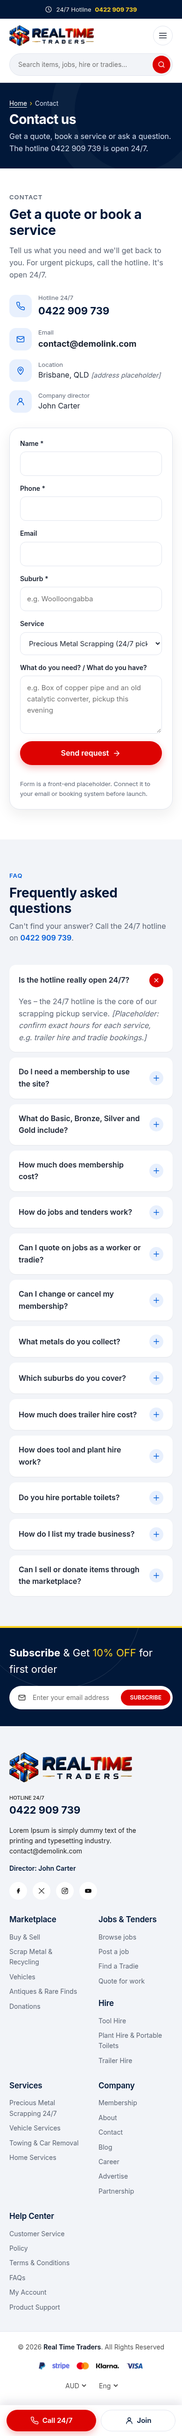
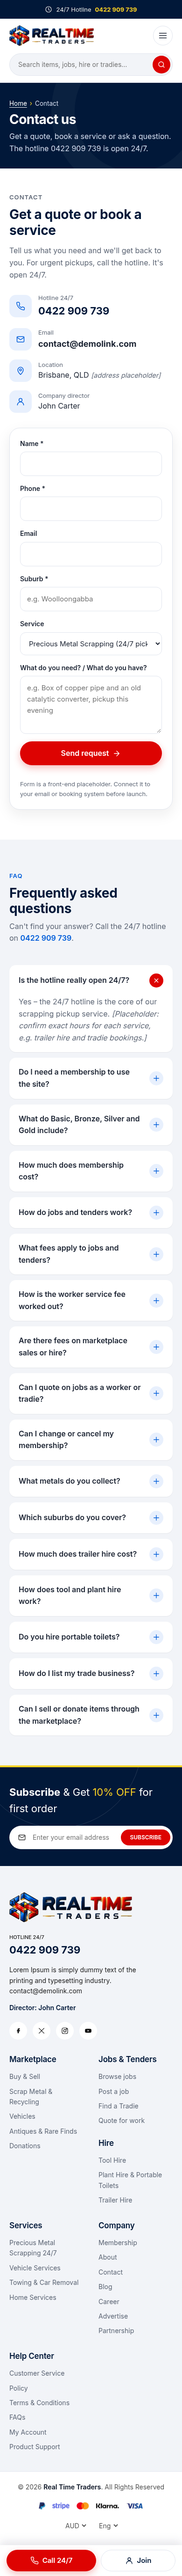
Add job fees

Changed region(s): [[0.0, 0.0, 1.0, 0.9958], [0.5231, 0.9647, 0.6462, 0.9958], [0.7077, 0.9647, 0.8, 0.9958]]

diff --git a/membership.html b/membership.html
@@ -200,7 +200,7 @@
             <p class="tier__price"><strong>$4.99</strong> <span>/month</span></p>
             <p class="tier__annual">or $49.90/year <em>(2 months free)</em></p>
             <button type="button" class="btn btn--navy btn--block" data-auth="join" data-join-tier="Basic">Join Basic</button>
-            <ul class="tier__list"><li class="tier__lead">Everything in Guest, plus:</li><li><svg class="icon" aria-hidden="true"><use href="#i-check"/></svg><span>Buy items in the marketplace</span></li><li><svg class="icon" aria-hidden="true"><use href="#i-check"/></svg><span>Sell up to 10 active listings</span></li><li><svg class="icon" aria-hidden="true"><use href="#i-check"/></svg><span>Post jobs &amp; receive quotes (up to 5 open jobs)</span></li><li><svg class="icon" aria-hidden="true"><use href="#i-check"/></svg><span>Message buyers, sellers &amp; tradies</span></li><li><svg class="icon" aria-hidden="true"><use href="#i-check"/></svg><span>Saved searches &amp; alerts</span></li></ul>
+            <ul class="tier__list"><li class="tier__lead">Everything in Guest, plus:</li><li><svg class="icon" aria-hidden="true"><use href="#i-check"/></svg><span>Buy items in the marketplace</span></li><li><svg class="icon" aria-hidden="true"><use href="#i-check"/></svg><span>Sell up to 10 active listings</span></li><li><svg class="icon" aria-hidden="true"><use href="#i-check"/></svg><span>Post jobs &amp; receive quotes (up to 5 open jobs)</span></li><li><svg class="icon" aria-hidden="true"><use href="#i-check"/></svg><span>No job connection fees (normally $9.95–$59.95)</span></li><li><svg class="icon" aria-hidden="true"><use href="#i-check"/></svg><span>Message buyers, sellers &amp; tradies</span></li><li><svg class="icon" aria-hidden="true"><use href="#i-check"/></svg><span>Saved searches &amp; alerts</span></li></ul>
           </article>
           <article class="tier">
             
@@ -245,7 +245,9 @@
               <tr><th scope="row">Message buyers, sellers &amp; tradies</th><td><span class="no" aria-label="Not included">–</span></td><td><span class="yes" aria-label="Included"><svg class="icon" aria-hidden="true"><use href="#i-check"/></svg></span></td><td><span class="yes" aria-label="Included"><svg class="icon" aria-hidden="true"><use href="#i-check"/></svg></span></td><td class="is-featured"><span class="yes" aria-label="Included"><svg class="icon" aria-hidden="true"><use href="#i-check"/></svg></span></td><td><span class="yes" aria-label="Included"><svg class="icon" aria-hidden="true"><use href="#i-check"/></svg></span></td></tr>
               <tr><th scope="row">Saved searches &amp; alerts</th><td><span class="no" aria-label="Not included">–</span></td><td><span class="yes" aria-label="Included"><svg class="icon" aria-hidden="true"><use href="#i-check"/></svg></span></td><td><span class="yes" aria-label="Included"><svg class="icon" aria-hidden="true"><use href="#i-check"/></svg></span></td><td class="is-featured"><span class="yes" aria-label="Included"><svg class="icon" aria-hidden="true"><use href="#i-check"/></svg></span></td><td><span class="yes" aria-label="Included"><svg class="icon" aria-hidden="true"><use href="#i-check"/></svg></span></td></tr>
               <tr><th scope="row">Post jobs &amp; receive quotes</th><td><span class="no" aria-label="Not included">–</span></td><td>Up to 5 open jobs</td><td>Unlimited*</td><td class="is-featured">Unlimited*</td><td>Unlimited*</td></tr>
+              <tr><th scope="row">Job connection fee (posters)</th><td>n/a</td><td>Waived</td><td>Waived</td><td class="is-featured">Waived</td><td>Waived</td></tr>
               <tr><th scope="row">Quote on jobs &amp; tenders</th><td><span class="no" aria-label="Not included">–</span></td><td><span class="no" aria-label="Not included">–</span></td><td>20/month</td><td class="is-featured">60/month</td><td>Unlimited*</td></tr>
+              <tr><th scope="row">Worker service fee (on jobs won)</th><td>n/a</td><td>n/a</td><td>12.5–20% + GST</td><td class="is-featured">12.5–20% + GST</td><td>12.5–20% + GST</td></tr>
               <tr><th scope="row">Featured listings</th><td><span class="no" aria-label="Not included">–</span></td><td><span class="no" aria-label="Not included">–</span></td><td><span class="no" aria-label="Not included">–</span></td><td class="is-featured">2/month</td><td>10/month + top placement</td></tr>
               <tr><th scope="row">Verified member badge</th><td><span class="no" aria-label="Not included">–</span></td><td><span class="no" aria-label="Not included">–</span></td><td><span class="no" aria-label="Not included">–</span></td><td class="is-featured"><span class="yes" aria-label="Included"><svg class="icon" aria-hidden="true"><use href="#i-check"/></svg></span></td><td><span class="yes" aria-label="Included"><svg class="icon" aria-hidden="true"><use href="#i-check"/></svg></span></td></tr>
               <tr><th scope="row">Hire booking priority</th><td><span class="no" aria-label="Not included">–</span></td><td><span class="no" aria-label="Not included">–</span></td><td><span class="no" aria-label="Not included">–</span></td><td class="is-featured"><span class="yes" aria-label="Included"><svg class="icon" aria-hidden="true"><use href="#i-check"/></svg></span></td><td><span class="yes" aria-label="Included"><svg class="icon" aria-hidden="true"><use href="#i-check"/></svg></span></td></tr>
@@ -258,6 +260,10 @@
           </table>
         </div>
         <p class="note">Prices in AUD, including GST. Introductory pricing; pricing and features may change. *Unlimited is subject to fair use. Member hire discounts apply to Real Time Traders hire bookings.</p>
+        <div class="fees-mini">
+          <p><strong><svg class="icon" aria-hidden="true"><use href="#i-coins"/></svg> Job fees:</strong> members pay no connection fee when they assign a job (normally $9.95–$59.95). Workers pay a service fee of 12.5–20% + GST on jobs they win, based on their fee level. Marketplace and hire have no extra fees beyond membership.</p>
+          <a href="jobs.html#fees" class="link-arrow">How job fees work <svg class="icon" aria-hidden="true"><use href="#i-arrow-right"/></svg></a>
+        </div>
       </div>
     </section>
 

diff --git a/jobs.html b/jobs.html
@@ -362,7 +362,7 @@
             <ol class="how-list">
               <li><span>1</span><div><strong>Describe the job</strong><p>Title, category, suburb, budget and details.</p></div></li>
               <li><span>2</span><div><strong>Receive quotes</strong><p>Local workers and tradies send tenders.</p></div></li>
-              <li><span>3</span><div><strong>Compare &amp; choose</strong><p>Check price, profile and reviews, then accept.</p></div></li>
+              <li><span>3</span><div><strong>Compare &amp; choose</strong><p>Check price, profile and reviews, then accept. Members pay no connection fee.</p></div></li>
               <li><span>4</span><div><strong>Get it done</strong><p>Job completed, then leave a review.</p></div></li>
             </ol>
           </div>
@@ -372,9 +372,44 @@
               <li><span>1</span><div><strong>Join &amp; build a profile</strong><p>Bronze membership or higher (from $19.99/month).</p></div></li>
               <li><span>2</span><div><strong>Browse jobs</strong><p>Filter by category and suburb, or set alerts.</p></div></li>
               <li><span>3</span><div><strong>Send a quote</strong><p>Price, timing and a short message.</p></div></li>
-              <li><span>4</span><div><strong>Win the work</strong><p>Do a great job and collect reviews.</p></div></li>
+              <li><span>4</span><div><strong>Win the work</strong><p>Do a great job and collect reviews. A service fee is deducted when you're paid (<a href="#fees">see fees</a>).</p></div></li>
             </ol>
           </div>
+        </div>
+
+        <div class="fees" id="fees">
+          <div class="fees__head">
+            <p class="eyebrow"><svg class="icon" aria-hidden="true"><use href="#i-coins"/></svg> Job fees</p>
+            <h3 class="fees__title">How fees work on Jobs &amp; Tenders</h3>
+            <p>Posting and browsing jobs costs nothing extra. Fees only apply once a quote is accepted and a worker is assigned. Marketplace buying and selling and equipment hire have no extra fees beyond membership.</p>
+          </div>
+          <div class="fees__grid">
+            <article class="fee-card">
+              <h4><svg class="icon" aria-hidden="true"><use href="#i-user"/></svg> Job posters: connection fee</h4>
+              <p>A one-off connection fee is charged when you accept a quote and assign the job. It's set by the accepted quote price, includes GST, and doesn't change if the price changes later.</p>
+              <p class="fee-card__waived"><svg class="icon" aria-hidden="true"><use href="#i-check"/></svg> <span><strong>Members pay $0.</strong> The connection fee is waived for Basic, Bronze, Silver and Gold members. Posting a job needs Basic ($4.99/month), so as a member you never pay it.</span></p>
+              <div class="table-wrap table-wrap--plain">
+                <table class="fee-table">
+                  <caption>Standard connection fee (non-members)</caption>
+                  <thead><tr><th scope="col">Accepted quote price</th><th scope="col">Connection fee (inc. GST)</th></tr></thead>
+                  <tbody><tr><td>Under $50</td><td>$9.95</td></tr><tr><td>$50 – $99.99</td><td>$14.95</td></tr><tr><td>$100 – $149.99</td><td>$19.95</td></tr><tr><td>$150 – $199.99</td><td>$29.95</td></tr><tr><td>$200 – $249.99</td><td>$39.95</td></tr><tr><td>$250 – $299.99</td><td>$49.95</td></tr><tr><td>$300 and over</td><td>$59.95</td></tr><tr class="is-member"><td>Basic membership and up</td><td><strong>$0 (waived)</strong></td></tr></tbody>
+                </table>
+              </div>
+            </article>
+            <article class="fee-card">
+              <h4><svg class="icon" aria-hidden="true"><use href="#i-tools"/></svg> Workers &amp; tradies: service fee</h4>
+              <p>When you win a job, a service fee is worked out from your fee level and the job price. It's deducted from your payment when the job is completed and paid out. If you don't win the job, you don't pay anything.</p>
+              <div class="table-wrap table-wrap--plain">
+                <table class="fee-table">
+                  <caption>Worker fee levels (higher level, lower fee)</caption>
+                  <thead><tr><th scope="col">Level</th><th scope="col">Earned in last 30 days</th><th scope="col">Completion rate*</th><th scope="col">Service fee</th></tr></thead>
+                  <tbody><tr><th scope="row">Level 1</th><td>Under $880</td><td>Starting level</td><td><strong>20%</strong> + GST</td></tr><tr><th scope="row">Level 2</th><td>$880+</td><td>Okay</td><td><strong>18.5%</strong> + GST</td></tr><tr><th scope="row">Level 3</th><td>$2,650+</td><td>Good</td><td><strong>14.9%</strong> + GST</td></tr><tr><th scope="row">Level 4</th><td>$5,300+</td><td>Excellent</td><td><strong>12.5%</strong> + GST</td></tr></tbody>
+                </table>
+              </div>
+              <p class="fee-card__example"><strong>Example:</strong> a $200 job at Level 1 has a 20% fee ($40) plus GST ($4), so you receive $156.</p>
+            </article>
+          </div>
+          <p class="note">*Completion rate is the share of your last 20 assigned jobs that you completed. You need to meet both the earnings and the completion requirement to reach a level. Fees are in AUD. Pricing and features may change.</p>
         </div>
       </div>
     </section>

diff --git a/css/style.css b/css/style.css
@@ -780,3 +780,37 @@ body:not(.is-member) .members-only:hover::after, body:not(.is-member) .members-o
 .member-teaser__prices li small { font-size: 12px; color: var(--steel); font-weight: 500; }
 .member-teaser__prices li.is-featured { border: 2px solid var(--red); }
 .member-teaser__note { margin-top: 12px; }
+
+/* v6: job fees */
+.fees { margin-top: 40px; background: #fff; border: 1px solid var(--line); border-radius: var(--radius-lg); padding: 24px 18px; box-shadow: var(--shadow); scroll-margin-top: 150px; }
+@media (min-width: 768px) { .fees { padding: 32px; } }
+.fees__head { max-width: 760px; margin-bottom: 22px; }
+.fees__title { font-size: clamp(22px, 2.6vw, 28px); margin: 0 0 8px; }
+.fees__head p:last-child { color: var(--steel); margin: 0; }
+.fees__grid { display: grid; gap: 18px; }
+@media (min-width: 1024px) { .fees__grid { grid-template-columns: 1fr 1.25fr; align-items: start; } }
+.fee-card { border: 1px solid var(--line); border-radius: var(--radius); padding: 20px; background: var(--soft); min-width: 0; }
+.fee-card h4 { display: flex; align-items: center; gap: 8px; margin: 0 0 8px; font-size: 18px; color: var(--navy); }
+.fee-card h4 .icon { width: 20px; height: 20px; color: var(--brand-text); }
+.fee-card > p { font-size: 14.5px; color: var(--steel); margin: 0 0 12px; }
+.fee-card__waived { display: flex; gap: 10px; align-items: flex-start; background: #e7f6ec; border: 1px solid #b7e2c4; color: #14532d !important; border-radius: var(--radius-sm); padding: 10px 12px; }
+.fee-card__waived .icon { width: 18px; height: 18px; flex: none; margin-top: 2px; color: #15803d; }
+.fee-card__example { background: #fff; border-left: 3px solid var(--accent); padding: 10px 12px; border-radius: 0 var(--radius-sm) var(--radius-sm) 0; margin-top: 12px !important; }
+.table-wrap--plain { overflow-x: auto; }
+.fee-table { width: 100%; border-collapse: collapse; background: #fff; border-radius: var(--radius-sm); overflow: hidden; font-size: 14px; }
+.fee-table caption { text-align: left; font-size: 13px; font-weight: 600; color: var(--navy); padding: 0 0 8px; caption-side: top; }
+.fee-table th, .fee-table td { padding: 9px 12px; border-bottom: 1px solid var(--line); text-align: left; white-space: nowrap; }
+.fee-table thead th { background: var(--navy); color: #fff; font-weight: 600; font-size: 13px; }
+.fee-table tbody th { color: var(--navy); font-weight: 700; }
+.fee-table tr.is-member td { background: #e7f6ec; color: #14532d; }
+.fees .note { margin-top: 16px; }
+.fees-mini { margin-top: 20px; display: flex; flex-wrap: wrap; gap: 10px 24px; align-items: center; justify-content: space-between; background: var(--soft); border: 1px solid var(--line); border-radius: var(--radius); padding: 14px 18px; }
+.fees-mini p { margin: 0; flex: 1 1 520px; color: var(--navy); font-size: 14.5px; }
+.fees-mini .icon { width: 16px; height: 16px; vertical-align: -3px; color: var(--brand-text); }
+@media (max-width: 559px) {
+  .fees { padding: 20px 14px; }
+  .fee-card { padding: 14px 12px; }
+  .fee-table { font-size: 13px; }
+  .fee-table th, .fee-table td { white-space: normal; padding: 8px 7px; }
+  .fee-table thead th { font-size: 12px; }
+}

diff --git a/contact.html b/contact.html
@@ -236,7 +236,19 @@
           </details>
           <details class="faq__item">
             <summary>How do jobs and tenders work?<svg class="icon faq__icon" aria-hidden="true"><use href="#i-plus"/></svg></summary>
-            <div class="faq__answer"><p>Post a job with a title, category, suburb, budget and description. Members send quotes (tenders), you compare them and choose who does the work. <em>[Placeholder: confirm fees, payments, deposits and the dispute process.]</em></p></div>
+            <div class="faq__answer"><p>Post a job with a title, category, suburb, budget and description. Members send quotes (tenders), you compare them and choose who does the work. Members pay no connection fee, and the worker you choose pays a service fee on the job. <em>[Placeholder: confirm payments, deposits and the dispute process.]</em></p></div>
+          </details>
+          <details class="faq__item">
+            <summary>What fees apply to jobs and tenders?<svg class="icon faq__icon" aria-hidden="true"><use href="#i-plus"/></svg></summary>
+            <div class="faq__answer"><p>Two fees, and only once a quote is accepted. Posters pay a one-off connection fee of $9.95 to $59.95 (inc. GST, based on the accepted quote price), which is <strong>waived for all members</strong>. Since posting needs Basic membership, members never pay it. Workers pay a service fee of 12.5% to 20% + GST on jobs they win, deducted when they're paid. See <a href="jobs.html#fees">job fees</a>.</p></div>
+          </details>
+          <details class="faq__item">
+            <summary>How is the worker service fee worked out?<svg class="icon faq__icon" aria-hidden="true"><use href="#i-plus"/></svg></summary>
+            <div class="faq__answer"><p>It depends on your fee level, which is based on what you've earned in the last 30 days and your completion rate over your last 20 assigned jobs. Level 1 (under $880) pays 20%, Level 2 ($880+) 18.5%, Level 3 ($2,650+) 14.9% and Level 4 ($5,300+) 12.5%, all plus GST. If you don't win a job, you don't pay.</p></div>
+          </details>
+          <details class="faq__item">
+            <summary>Are there fees on marketplace sales or hire?<svg class="icon faq__icon" aria-hidden="true"><use href="#i-plus"/></svg></summary>
+            <div class="faq__answer"><p>No. Buying and selling in the marketplace and hiring equipment have no extra fees beyond your membership. Hire is priced on request.</p></div>
           </details>
           <details class="faq__item">
             <summary>Can I quote on jobs as a worker or tradie?<svg class="icon faq__icon" aria-hidden="true"><use href="#i-plus"/></svg></summary>

diff --git a/docs/pricing-research.md b/docs/pricing-research.md
@@ -33,12 +33,43 @@ Accessed 9 October 2026 (AEST). All figures are in AUD. Where a source gives pri
 
 ## Rationale
 - **Basic is a low barrier, and it can post jobs.** Facebook Marketplace and most of Gumtree are free to list, so a new paid marketplace has to cost very little. At $4.99/month, Basic is cheaper than Airtasker's customer membership ($89/year, about $7.42/month) and much cheaper than eBay Pro Basic ($27.45/month). Posting jobs is what creates demand for the tradies who pay, so it goes in Basic rather than Bronze. Airtasker charges posters $9.95 to $59.95 per task; here a Basic member can post up to 5 open jobs for $4.99 a month.
-- **Quoting is where workers pay, and it's cheaper than lead platforms.** Bronze at $19.99/month (20 quotes) and Silver at $39.99/month (60 quotes) cost a fraction of hipages Starter ($152.90/month inc. GST for 155 credits) or ServiceSeeking (from $129/month). They also avoid Airtasker's 12.5% to 20% cut of each job. The recommendation is **no lock-in term**, unlike hipages' 6-month intro term.
+- **Quoting is where workers pay, and it's cheaper than lead platforms.** Bronze at $19.99/month (20 quotes) and Silver at $39.99/month (60 quotes) cost a fraction of hipages Starter ($152.90/month inc. GST for 155 credits) or ServiceSeeking (from $129/month). On top of that, workers pay the same per-job service fee as Airtasker (see "Job fee model" below), so quoting costs much less than on lead platforms and the per-job fees are no higher than Airtasker's. The recommendation is **no lock-in term**, unlike hipages' 6-month intro term.
 - **Gold is for businesses.** At $79.99/month it sits just under eBay Pro Featured ($82.45) and well below hipages Starter, and it bundles unlimited listings and quotes (fair use), a storefront, analytics and team seats.
 - **Annual billing is "2 months free"** (about 17% off). That's more generous than hipages (5%) and simpler than ServiceSeeking's custom 20% to 40% discounts.
 - **Hire discounts (5% Silver / 10% Gold)** reward the higher tiers. Kennards gives trade customers custom rates rather than a published %, so a clear member % is a simple selling point. Check the margin on hire and plant before launch.
 
+## Job fee model (added 9 Oct 2026): matches Airtasker
+Dwayne's decision was to take what Airtasker takes on Jobs & Tenders. The figures below were checked against Airtasker's official Australian support pages on **9 October 2026**.
+
+### Airtasker's structure (source figures)
+| Item | Airtasker (AU) | Source | Accessed |
+|---|---|---|---|
+| Tasker service fee | Charged on tasks you're assigned (if you don't win, you don't pay) and deducted from the payment when it's released after completion. The rate depends on your tier and is 12.5% to 20% of the task price, **excluding GST** (GST is added to the fee) | https://support.airtasker.com/hc/en-au/articles/200294499-What-is-the-service-fee (updated 5 Oct 2026) | 9 Oct 2026 |
+| Tasker tiers | **Bronze 20%**: poor completion in last 20 tasks / earned under $880 in the last 30 days. **Silver 18.5%**: okay completion / $880+. **Gold 14.9%**: good completion / $2,650+. **Platinum 12.5%**: excellent completion / $5,300+. You must meet both the earnings and the completion requirement. These are read from the tier table image in the official article | https://support.airtasker.com/hc/en-au/articles/900003895046-What-are-Tasker-tiers (updated 5 Oct 2026). Table image: https://support.airtasker.com/hc/article_attachments/34455335967257 | 9 Oct 2026 |
+| Gold rate cross-check | The Pro Pass page also states Gold is "currently 14.9%, excl. GST" | https://www.airtasker.com/au/lp/airtasker-pro-pass/ | 9 Oct 2026 |
+| Completion rate | The share of tasks completed out of the last 20 assigned. Airtasker publishes a general guide (90–100% highly reliable, 80–89% reliable, 65–79% average, 50–64% unreliable, 0–49% extremely unreliable), but **does not publish which % counts as "poor/okay/good/excellent" for each tier** | https://support.airtasker.com/hc/en-au/articles/225875007-What-are-Completion-Rates | 9 Oct 2026 |
+| Customer Connection Fee | A one-off fee when a Tasker is assigned, set by task price, inc. GST, fixed once assigned (not re-charged on price changes or bonuses). Under $50 $9.95; $50–99.99 $14.95; $100–149.99 $19.95; $150–199.99 $29.95; $200–249.99 $39.95; $250–299.99 $49.95; $300+ $59.95 | https://support.airtasker.com/hc/en-au/articles/360031769372-What-is-the-Connection-Fee (updated 14 Jul 2026) | 9 Oct 2026 |
+| Membership waiver | An Airtasker customer membership ($89/yr inc. GST) waives Connection Fees | Same page, plus https://www.airtasker.com/au/airtasker-membership-terms/ | 9 Oct 2026 |
+
+Caveats: Airtasker says fees may vary temporarily under its "randomised fee studies". A user comment on the tiers article (17 Jul 2026) claims Bronze shows 22%, but the official table still says 20%, so the site uses 20%.
+
+### What Real Time Traders uses
+**Workers (service fee on jobs won, deducted at payout, plus GST).** The levels are renamed "Level 1–4" so they don't clash with our Bronze/Silver/Gold memberships.
+
+| Level | Earned in last 30 days | Completion (last 20 jobs) | Service fee (ex GST) | Airtasker equivalent |
+|---|---|---|---|---|
+| Level 1 | Under $880 | Starting level | 20% | Bronze |
+| Level 2 | $880+ | Okay | 18.5% | Silver |
+| Level 3 | $2,650+ | Good | 14.9% | Gold |
+| Level 4 | $5,300+ | Excellent | 12.5% | Platinum |
+
+**Posters (connection fee per assigned job, inc. GST).** The fee bands are identical to Airtasker's ($9.95 to $59.95), and the fee is **waived for Basic, Bronze, Silver and Gold members**, the same way Airtasker's membership waives it. Because posting a job currently needs Basic, members never actually pay it. The table is shown so members can see the saving. If you later let guests post with a free account, they would pay these fees.
+
+**Marketplace and hire:** no commission or extra fees beyond membership (unchanged).
+
+**To confirm before launch:** the completion-rate % for each level, how cancellations are treated (Airtasker keeps the connection fee if the poster is responsible), payment holding/escrow and payout timing. These all need the payments backend.
+
 ## Assumptions and open items
-- The site does **not** state that there is no commission or no lock-in; those are recommendations only. Confirm the fee model (whether there's any commission or connection fee on jobs or sales), cancellation and refund terms, and what "fair use" means before launch.
+- The site does **not** claim "no commission" (there is a job service fee) or "no lock-in" (still to decide). Confirm cancellation and refund terms, and what "fair use" means before launch.
 - Competitor prices change often. Re-check these figures before launch.
 - Real accounts, subscriptions and payments need a backend (for example Stripe Billing plus a marketplace platform or a custom build).

diff --git a/README.md b/README.md
@@ -56,7 +56,18 @@ The nav, hero copy, quick links, footer, quote-form dropdown and FAQ all follow 
   - Quote now (jobs & tenders): "Bronze membership or higher"
   - Request hire, Get a quote, Call: open to everyone
 - The comparison table scrolls sideways on phones, and the first column stays fixed.
-- Still to confirm before launch: fee model (any commission or connection fee), cancellation, refund and pro-rata terms (placeholder in the FAQ), fair-use limits, and the margin on member hire discounts.
+- Still to confirm before launch: cancellation, refund and pro-rata terms (placeholder in the FAQ), fair-use limits, and the margin on member hire discounts.
+
+## Job fees (Jobs & Tenders): same as Airtasker, checked 9 Oct 2026
+Shown in the "Job fees" block on `jobs.html#fees`, a short note and two table rows on `membership.html`, and FAQ entries on `contact.html`.
+
+| Who | Fee | When |
+|---|---|---|
+| Job poster | Connection fee by accepted quote price: under $50 $9.95, $50–99.99 $14.95, $100–149.99 $19.95, $150–199.99 $29.95, $200–249.99 $39.95, $250–299.99 $49.95, $300+ $59.95 (inc. GST). **Waived for Basic, Bronze, Silver and Gold members.** Posting needs Basic, so members never pay it. | Once, when a quote is accepted and the job assigned |
+| Worker/tradie | Service fee by level: Level 1 (under $880 earned in the last 30 days) 20%, Level 2 ($880+) 18.5%, Level 3 ($2,650+) 14.9%, Level 4 ($5,300+) 12.5%. All **+ GST**, and the completion rate over the last 20 jobs must also meet the level | On jobs won, deducted at payout |
+| Marketplace / hire | No extra fees beyond membership | n/a |
+
+Sources and caveats are in `docs/pricing-research.md`. The exact completion-rate % for each level isn't published by Airtasker and is still to be decided. Taking fees requires the payments backend.
 
 ### Accounts and payments need a backend
 The Join/Login modal and every Join button are **mockups only**. They do not create accounts, log anyone in, take payments or store anything. The "Preview as member" switch in the modal just removes the locks in the browser, so you can see what members would see. Real memberships need a backend before launch, either a marketplace platform (e.g. Sharetribe, or WordPress + a membership/marketplace plugin) or a custom build. That backend has to handle:
